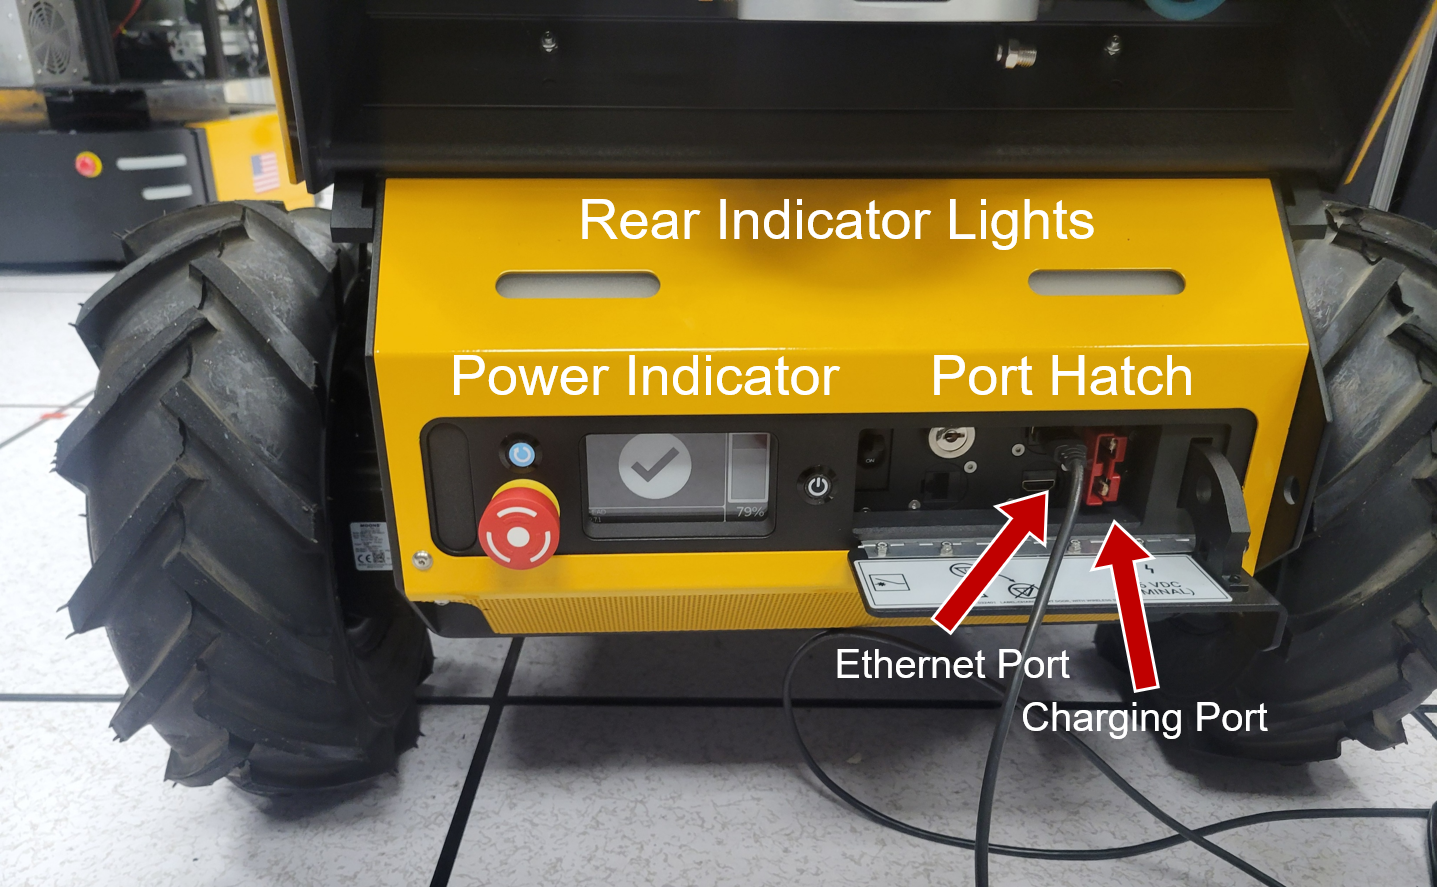
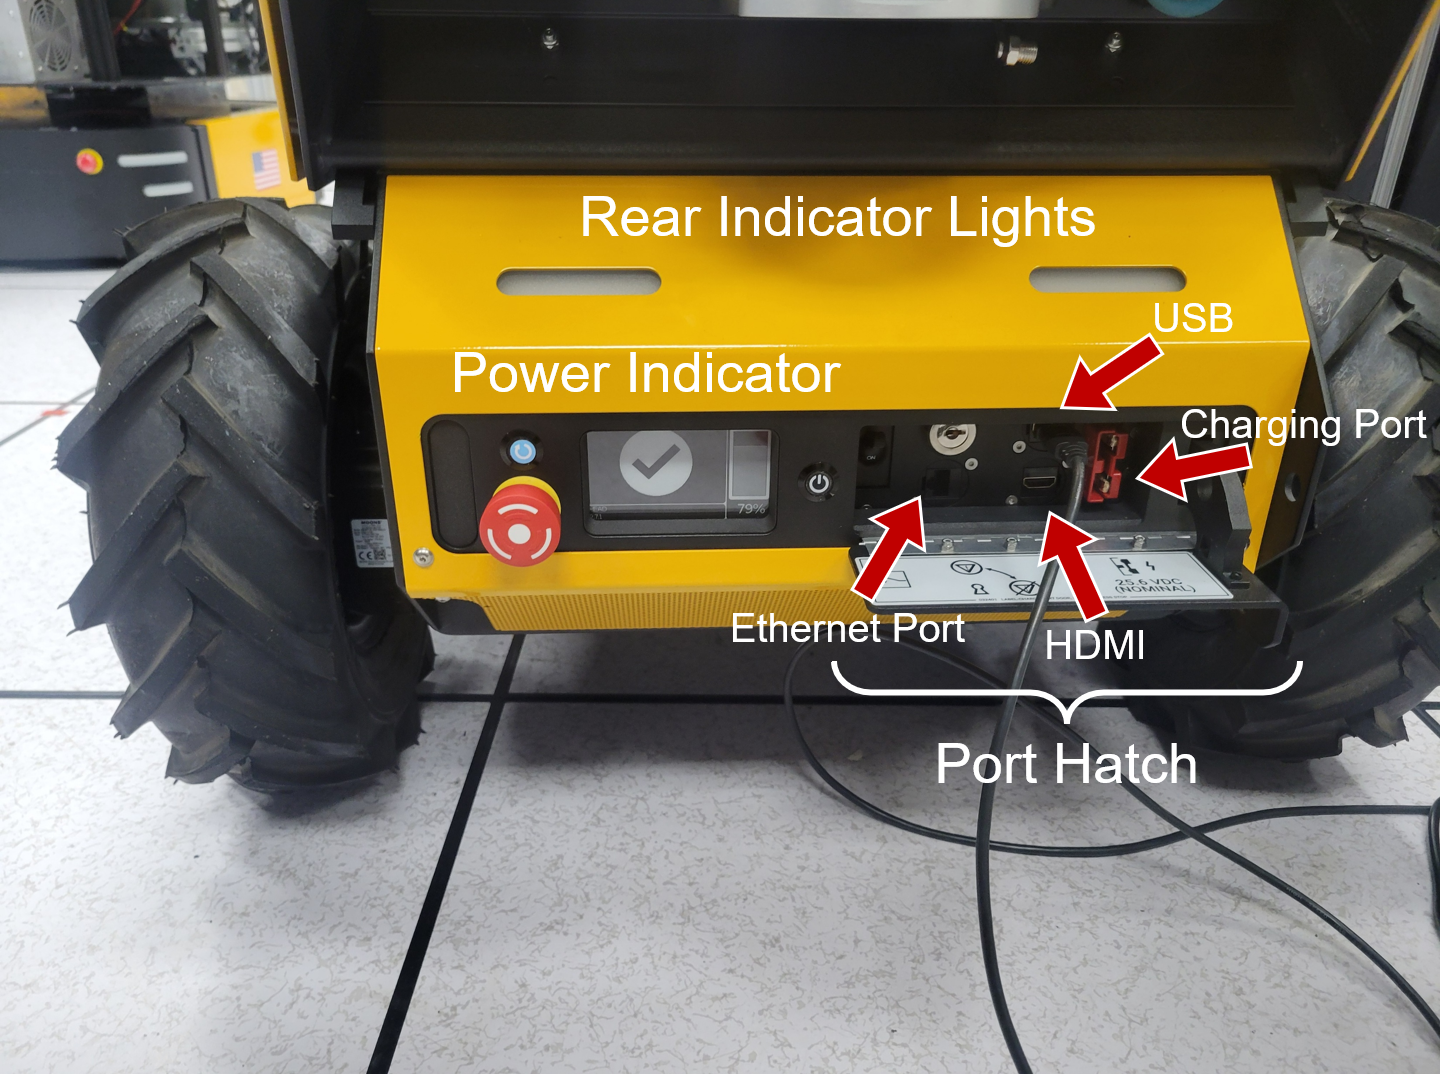
clarify transport/hw-dev containers; add instructions for development

diff --git a/src/togo/README.md b/src/togo/README.md
@@ -28,6 +28,10 @@ See our [hardware overview docs](./docs/HARDWARE_OVERVIEW.md) for more informati
 Hardware instructions are taken directly from the [Husky Quick Start](https://docs.clearpathrobotics.com/docs_robots/outdoor_robots/husky/a300/user_manual_husky/#quick-start) guide.
 However, we provide additional details specific to Togo's setup.
 
+> [!NOTE]
+> The following instructions are for running core Togo functionality.
+> Please refer to our [development docs](./docs/TOGO_DEVELOPMENT.md) for information about running your own code on Togo.
+
 1. Verify the robot is in a ready state.
    1. Unplug the charger and any ethernet cables.
    2. Close the port hatch door.
@@ -36,6 +40,7 @@ However, we provide additional details specific to Togo's setup.
     ![Port Hatch](./docs/images/togo-back-labeled.png)
 
 2. Press and hold the Power Button for one second and then release it.
+  The 4 status lights will be solid red while the robot's computer boots up.
 
     ![Power Button](./docs/images/power-and-reset-buttons-labeled.jpg)
 
@@ -45,29 +50,21 @@ However, we provide additional details specific to Togo's setup.
   Once the e-stops are released, the status lights will blinking red, alternating left/right, indicating the safety restart button needs to be pressed.
 5. Press and release the Safety Restart button.
 6. When the robot is up and ready to go, the front lights should be solid white and the rear lights (by the mast) should be solid red.
-7. All remaining hardware instructions will be run on the robot's control computer.
-   1. SSH into the robot from the console computer:
+7. All remaining hardware instructions will be run on the robot's control computer. SSH into the robot from the console computer:
 
-      ```bash
-      ssh robot
-      ```
-
-   2. Connect to the [hardware development docker container](../../README.md#hardware-development-image).
-   By default, this container will already be running:
-
-      ```bash
-      # connect to the already running container
-      docker compose exec hw-dev terminator # TODO is this right? or would it be transport?
-      ```
-
-> [!NOTE]
-> Unless otherwise noted, all remaining hardware instructions should be run on the robot's control computer in the hardware development docker container.
+    ```bash
+    ssh robot
+    ```
 
 ### Transport Mode
 
 By default, Togo starts in `transport_mode`.
 This means the basic platform comm nodes, control nodes, and joystick control nodes are brought up in the Togo docker container when the robot starts.
 For more in-depth information about what transport mode does, please refer to [transport mode docs](../../references/documentation/Transport_Mode.md).
+
+> [!NOTE]
+> Transport mode is intended for when we want basic robot functionality *without using the console computer* for anything besides visualization.
+> If you plan on using the console computer to run application nodes, please proceed to [Non-Transport Mode instructions](#non-transport-mode).
 
 To check whether Togo is in transport mode:
 
@@ -82,7 +79,7 @@ See [joystick control](#joystick-control) below for more information on driving 
 
 ### Non-Transport Mode
 
-To stop transport mode, run the following alias on Togo (*not* in the docker container):
+To stop transport mode, run the following alias on Togo (*not* in a docker container):
 
 ```bash
 stop_transport_mode
@@ -90,6 +87,21 @@ stop_transport_mode
 
 This kills the docker container running transport mode.
 This means all of the basic platform comm and control nodes are no longer running.
+
+All remaining hardware instructions will be run on the robot's control computer in the hardware development docker container.
+Connect to the [hardware development docker container](../../README.md#hardware-development-image):
+
+```bash
+# bring up the container; this will automatically start the micro-ROS agent docker container as well
+docker compose up hw-dev -d --force-recreate
+
+# connect to the running container
+docker compose exec hw-dev terminator
+```
+
+> [!NOTE]
+> Unless otherwise noted, all remaining hardware instructions should be run on the robot's control computer in the hardware development docker container.
+> The `docker compose exec` command above will spawn a terminator window where all of the following commands can be run.
 
 To bring up the robot manually in non-transport mode:
 
@@ -100,22 +112,17 @@ To bring up the robot manually in non-transport mode:
     ```
 
 2. To bring up Togo's controllers and teleop control (enabling control through the PS4 controller),
-we include a few convenient launch file for Togo's hardware operation mode.
+we include a convenient launch file for Togo's hardware operation mode.
 
     ```bash
     ros2 launch togo_deploy control_hardware.launch.py
     ```
 
-    This launch file is equivalent to launching controls and teleop separately:
+3. At this point, Togo is ready to drive!
+  See [joystick control](#joystick-control) below for more information on driving Togo.
 
-    ```bash
-    # controllers
-    ros2 launch togo_deploy control.launch.py
-    # teleop
-    ros2 launch togo_deploy teleop.launch.py
-    ```
-
-To restart transport mode, restart the robot.
+4. To launch your own application nodes, you may need to [launch the sensors](#launch-sensors) as well.
+  Please see [development on Togo docs](./docs/TOGO_DEVELOPMENT.md) for best practices for your own development on Togo!
 
 ### Joystick Control
 
@@ -151,7 +158,6 @@ When you're done with Togo for the day:
 4. Plug the robot in to charge.
     ![Charger](./docs/images/charger.jpg)
 5. Say "Good boy, Togo!" and give him a lil pat of appreciation.
-
 
 ## Gazebo Run Instructions
 

diff --git a/src/togo/docs/TOGO_DEVELOPMENT.md b/src/togo/docs/TOGO_DEVELOPMENT.md
@@ -1,0 +1,27 @@
+# Software Development on Togo
+
+## Best Practices for Development on Robots
+
+> [!WARNING]
+> Please review these best practices carefully.
+
+1. When in doubt, ***ask for help and ask questions***.
+2. Develop new applications in ***separate packages*** from the key robot functionality packages (`togo_description` and `togo_deploy`).
+   1. If you are thinking of making any changes to the Togo core packages, talk through these changes with experienced operators and developers.
+3. Develop on ***separate branches*** so this git repository maintains the latest stable, working robot configuration packages.
+4. Test all changes thorough ***in simulation*** before testing on the robot.
+5. Debugging code on the robot during an ops session is expected.
+  However, completing development on the robot is typically unwise (since it often skips testing in simulation first) and is a waste of hardware time.
+6. Use your teammates as rubber ducks!
+  Even experienced operators benefit from talking through their changes before running on the robot.
+
+## Running Your Code on Togo
+
+1. ***Before starting up the robot*** pull your changes onto Togo's robot computer.
+2. If your changes added new package dependencies, the [hardware development docker images](../../../README.md#hardware-development-image) will need to be rebuilt:
+
+    ```bash
+    docker compose build hw-dev
+    ```
+
+3. Continue with the [non-transport mode hardware instructions](../README.md#non-transport-mode).
